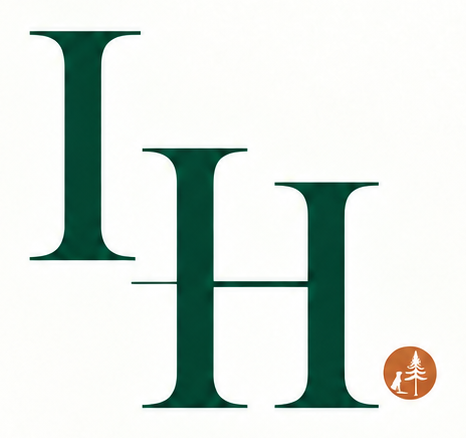
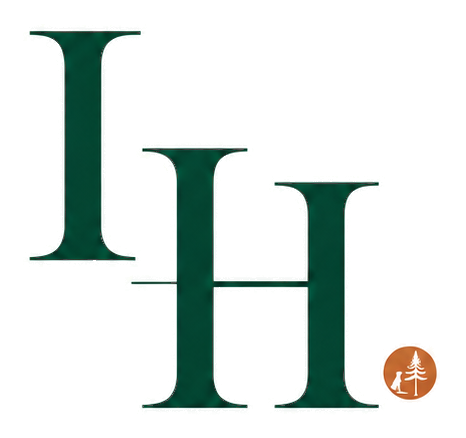
Refine seamless IH. signature in Econometric Advisor
Deploy the approved source-derived transparent IH. signature variants while preserving the application interface, behavior, and original canonical logo.

diff --git a/index.html b/index.html
@@ -1142,7 +1142,11 @@ textarea.ctx{width:100%;min-height:120px;background:var(--bg2);border:.5px solid
 <style>.ov-research-col-label--lit{color:#c084fc !important;background:rgba(168,85,247,.1) !important;border-left-color:#a855f7 !important;}</style>
 <style id="ih-identity-style">
 /* Approved personal artwork; keep the application's native identity. */
-.ih-personal-signature{display:block;flex:none;width:40px;height:auto;background:#fff;}
+.ih-personal-signature{display:block;flex:none;width:40px;height:auto;background:transparent;}
+.ih-personal-signature img{display:block;width:100%;height:auto;}
+.ih-personal-signature .ih-mark-night{display:none;}
+.ih-personal-signature.ih-on-dark .ih-mark-day,[data-theme="dark"] .ih-personal-signature .ih-mark-day{display:none;}
+.ih-personal-signature.ih-on-dark .ih-mark-night,[data-theme="dark"] .ih-personal-signature .ih-mark-night{display:block;}
 .ih-app-signature{display:flex;justify-content:center;align-items:center;padding:16px 24px calc(20px + env(safe-area-inset-bottom,0px));}
 @media print{.ih-app-signature{display:none;}}
 </style>
@@ -1398,7 +1402,7 @@ textarea.ctx{width:100%;min-height:120px;background:var(--bg2);border:.5px solid
   <div class="results" id="results-inner"></div>
 </div>
 
-<footer class="ih-app-signature"><img class="ih-personal-signature" src="assets/identity/ih-signature.png" width="466" height="438" alt="IH. — Iain Holmes" decoding="async"></footer>
+<footer class="ih-app-signature"><span class="ih-personal-signature ih-on-dark"><img class="ih-mark-day" src="assets/identity/ih-signature.png?v=20261012-seamless2" width="466" height="438" alt="IH. — Iain Holmes" decoding="async"><img class="ih-mark-night" src="assets/identity/ih-signature-night.png?v=20261012-seamless2" width="466" height="438" alt="IH. — Iain Holmes" decoding="async"></span></footer>
 
 <div class="modal-bg" id="api-modal" style="display:none">
   <div class="modal" style="position:relative">

diff --git a/assets/identity/README.md b/assets/identity/README.md
@@ -1,21 +1,38 @@
-# IH. personal signature
+# IH. identity — source-derived transparent artwork
 
-`ih-signature.png` is a byte-for-byte copy of the approved lossless crop in
-`iainholmes/iainholmes.github.io`, at `desk/assets/identity/ih-signature.png`.
-The authoritative master remains `desk/assets/identity/ih-master.png` there.
+Canonical source: `desk/assets/identity/ih-master.png` in
+`iainholmes/iainholmes.github.io`. It and the original crops are unchanged.
[1 lines of base64/hex data omitted]
 
-Signature SHA-256:
[1 lines of base64/hex data omitted]
+The interrupted remote work supplied transparent images and scoped identity
+CSS. Inspection found pale edge fringes and inadequate green-on-navy contrast.
+The final derivatives use the full original crop resolution, 466 × 438:
 
-Master SHA-256:
[1 lines of base64/hex data omitted]
+- `ih-signature.png`: original green lettering, transparent surround.
+- `ih-signature-night.png`: source-derived ivory lettering for dark surfaces;
+  identical alpha, proportions and copper illustration.
+- `ih-period.png` (main repository only): 60 × 60 transparent copper circle.
 
-This 466 × 438 image preserves the original letterforms, colors, illustrated
-copper period, and paper ground. Display proportionally at 40 CSS pixels wide.
-Do not redraw, filter, recolor, or simplify it. At this discreet footer size,
-the initials identify the creator; the tiny illustration retains its exact
-pixels but cannot serve as a detailed dog/tree illustration.
+The source-pixel matte removes neutral surrounding paper and unmattes fractional
+edge coverage. Enclosed cream Rupert/pine details are protected, not color-keyed
+away. Opaque green letter interiors preserve the source's colors and texture.
+No letterforms are generated, traced, resampled or rearranged. The ivory
+contrast treatment changes lettering colors only; its illustrated copper period
+is identical to the green variant.
 
-The signature is part of the application interface only. It adds no tracking,
-links, storage, scripts, or changes to exports. Desktop/iPhone browser visual
-acceptance is still required before release.
+The reproducible builder is `scripts/build_identity_derivatives.cjs` in the main
+repository and requires Node and ImageMagick. Its source inputs are immutable.
+All three repositories use identical derivative files. Public references use
+`?v=20261012-seamless2`; the old crops within `/desk/` are not edited.
+
+Host typography, artwork, links and functionality remain unchanged. Signatures
+retain their existing 40–44 CSS-pixel display widths. At those small sizes the
+period is preserved but its detailed illustration is naturally tiny.
+
+Supported browser control remains unavailable in this Work session. Asset
+proofs were examined on ivory/navy and at 44/18px display sizes; those are not
+integrated browser screenshots or physical acceptance.
+
+The signature remains in its existing attribution/footer location. All original
+application scripts and export-generation code remain byte-for-byte unchanged.
+Only identity markup/styles, the image derivatives and these notes change.
